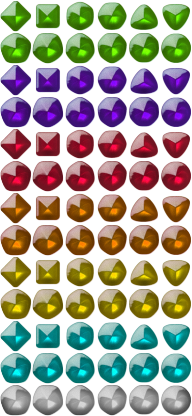
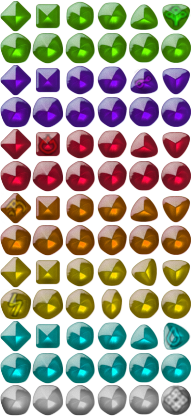
More gems! Better gems!

diff --git a/core/src/com/feiqn/gempires/MatchScreen.java b/core/src/com/feiqn/gempires/MatchScreen.java
@@ -4,31 +4,61 @@ import com.badlogic.gdx.Gdx;
 import com.badlogic.gdx.ScreenAdapter;
 import com.badlogic.gdx.graphics.GL20;
 import com.badlogic.gdx.graphics.Texture;
+import com.badlogic.gdx.graphics.g2d.Batch;
 import com.badlogic.gdx.graphics.g2d.Sprite;
 import com.badlogic.gdx.graphics.g2d.TextureRegion;
+import com.badlogic.gdx.math.Intersector;
+import com.badlogic.gdx.math.Rectangle;
 import com.badlogic.gdx.math.Vector2;
 import com.badlogic.gdx.scenes.scene2d.Actor;
+import com.badlogic.gdx.scenes.scene2d.InputEvent;
+import com.badlogic.gdx.scenes.scene2d.InputListener;
 import com.badlogic.gdx.scenes.scene2d.Stage;
 import com.badlogic.gdx.scenes.scene2d.ui.Image;
 import com.badlogic.gdx.utils.viewport.FitViewport;
 
 import java.util.ArrayList;
+import java.util.Random;
 
 public class MatchScreen extends ScreenAdapter {
+
+    public class Gem extends Image {
+
+        TextureRegion image;
+        Rectangle bounds;
+        float x, y;
+        public Gem(TextureRegion region) {
+            x = this.getX();
+            y = this.getY();
+            image = new TextureRegion(region);
+            bounds = new Rectangle((int) getX(), (int) getY(), (int) getWidth(), (int) getHeight());
+        }
+
+        public Rectangle getBounds() {
+            return bounds;
+        }
+
+        private void setXY(float pX,float pY) {
+            setPosition(pX, pY);
+            bounds.setX((int)pX);
+            bounds.setY((int)pY);
+        }
+
+        @Override
+        public void draw(Batch batch, float parentAlpha) {
+            super.draw(batch, parentAlpha);
+        }
+    }
 
     GempiresGame game;
 
     private Stage stage;
     public int rows, columns;
 
-    // private Gem gems;
+    private TextureRegion[] gemTextures;
 
-    private Texture gemSpriteSheet;
-    private TextureRegion greenGemTexture;
-
-    // public Image greenGem;
-
-    public ArrayList<Image> gems;
+    // TODO: switch to Pooling for gems
+    public ArrayList<Gem> gems;
     public ArrayList<Vector2> slots;
 
     public MatchScreen(GempiresGame game) { this.game = game; }
@@ -44,14 +74,11 @@ public class MatchScreen extends ScreenAdapter {
         Vector2 lastPosition = firstPosition;
         slots.add(firstPosition);
         for(int i = 0; i < countRows; i++) {
-            // Gdx.app.log("rowLoop", "row loop " + i + " of " + countRows);
             for(int x = 0; x < countColumns; x++) {
-                // Gdx.app.log("colLoop", "column loop " + x + " of " + countColumns + " in row " + i);
                 Vector2 nextPosition = new Vector2(lastPosition.x + 1, lastPosition.y);
 
                 slots.add(nextPosition);
                 lastPosition = nextPosition;
-                // Gdx.app.log("slotReadout", "Wrote to slot: " + (x + i) + " with value: " + slots.get(x + i));
             }
             if(slots.size() < countColumns * countRows) {
                 lastPosition.y += 1;
@@ -61,35 +88,69 @@ public class MatchScreen extends ScreenAdapter {
     }
 
     public void fillSlots() {
-        // Gdx.app.log("fillSlots", "MatchScreen.fillSlots");
-        for(int i = 0; i < slots.size(); i++) {
-            // TODO: pick a random gem
-            Image greenGem = new Image(greenGemTexture);
-            greenGem.setSize(1,1);
-            greenGem.setPosition(slots.get(i).x, slots.get(i).y);
-            stage.addActor(greenGem);
+        for(int i = 0; i < slots.size() - 1; i++) {
+            final Random random = new Random();
+            final int gemColor = random.nextInt(7);
+            // final Image newGem = new Image(gemTextures[gemColor]);
+            final Gem gem = new Gem(gemTextures[gemColor]);
+            final int finalI = i;
+
+            gem.setPosition(slots.get(i).x, slots.get(i).y);
+
+            gem.addListener(new InputListener() {
+                @Override
+                public boolean touchDown(InputEvent event, float x, float y, int pointer, int button) {
+                    gem.setColor(.5f, .5f, .5f, 1);
+                    Gdx.app.log("gemTouched", "Gem touched at location: " + slots.get(finalI).x + ", " + slots.get(finalI).y + " of color: " + gemColor);
+                    return true;
+                }
+
+                @Override
+                public void touchUp(InputEvent event, float x, float y, int point, int button) {
+                    gem.setColor(1.5f, 1.5f, 1.5f, 1);
+
+                    if(x > 0.5f && y < 1 && y > -1) {
+                        Gdx.app.log("moveRight", "Move right");
+                    } else if(x < -0.5f && y < 1 && y > -1) {
+                        Gdx.app.log("moveLeft", "Move left");
+                    } else if(x < 1 && x > -1 && y < -0.5f) {
+                        Gdx.app.log("moveDown", "Move down");
+                    } else if(x < 1 && x > -1 && y > 0.5f) {
+                        Gdx.app.log("moveUp", "Move up");
+                    }
+                }
+            });
+            //gems.add((gem));
+            stage.addActor(gem);
         }
     }
 
     @Override
     public void show() {
-        // Gdx.app.log("MatchShow", "MatchScreen.show");
 
         FitViewport fitViewport = new FitViewport(13, 13);
 
         stage = new Stage(fitViewport);
 
-        gemSpriteSheet = new Texture(Gdx.files.internal("gem_set.png"));
-        greenGemTexture = new TextureRegion(gemSpriteSheet, 160, 0, 32, 32);
+        Texture gemSpriteSheet = new Texture(Gdx.files.internal("gem_set.png"));
+        gemTextures = new TextureRegion[]{
+                new TextureRegion(gemSpriteSheet, 160, 0, 32, 32), // GREEN 0
+                new TextureRegion(gemSpriteSheet, 128, 64, 32, 32), // PURPLE 1
+                new TextureRegion(gemSpriteSheet, 32, 128, 32, 32), // RED 2
+                new TextureRegion(gemSpriteSheet, 0, 192, 32, 32), // ORANGE 3
+                new TextureRegion(gemSpriteSheet, 0, 288, 32, 32), // YELLOW 4
+                new TextureRegion(gemSpriteSheet, 160, 320, 32, 32), // BLUE 5
+                new TextureRegion(gemSpriteSheet, 160, 384, 32, 32) // CLEAR 6
+        };
 
         slots = new ArrayList<Vector2>();
-        gems = new ArrayList<Image>();
+        gems = new ArrayList<Gem>();
 
         createSlots(12, 12);
-        Gdx.app.log("slotsCreated", "Finished creating slots");
 
         fillSlots();
-        Gdx.app.log("slotsFilled",  "Finished filling slots");
+
+        Gdx.input.setInputProcessor(stage);
 
         game.camera.update();
     }
